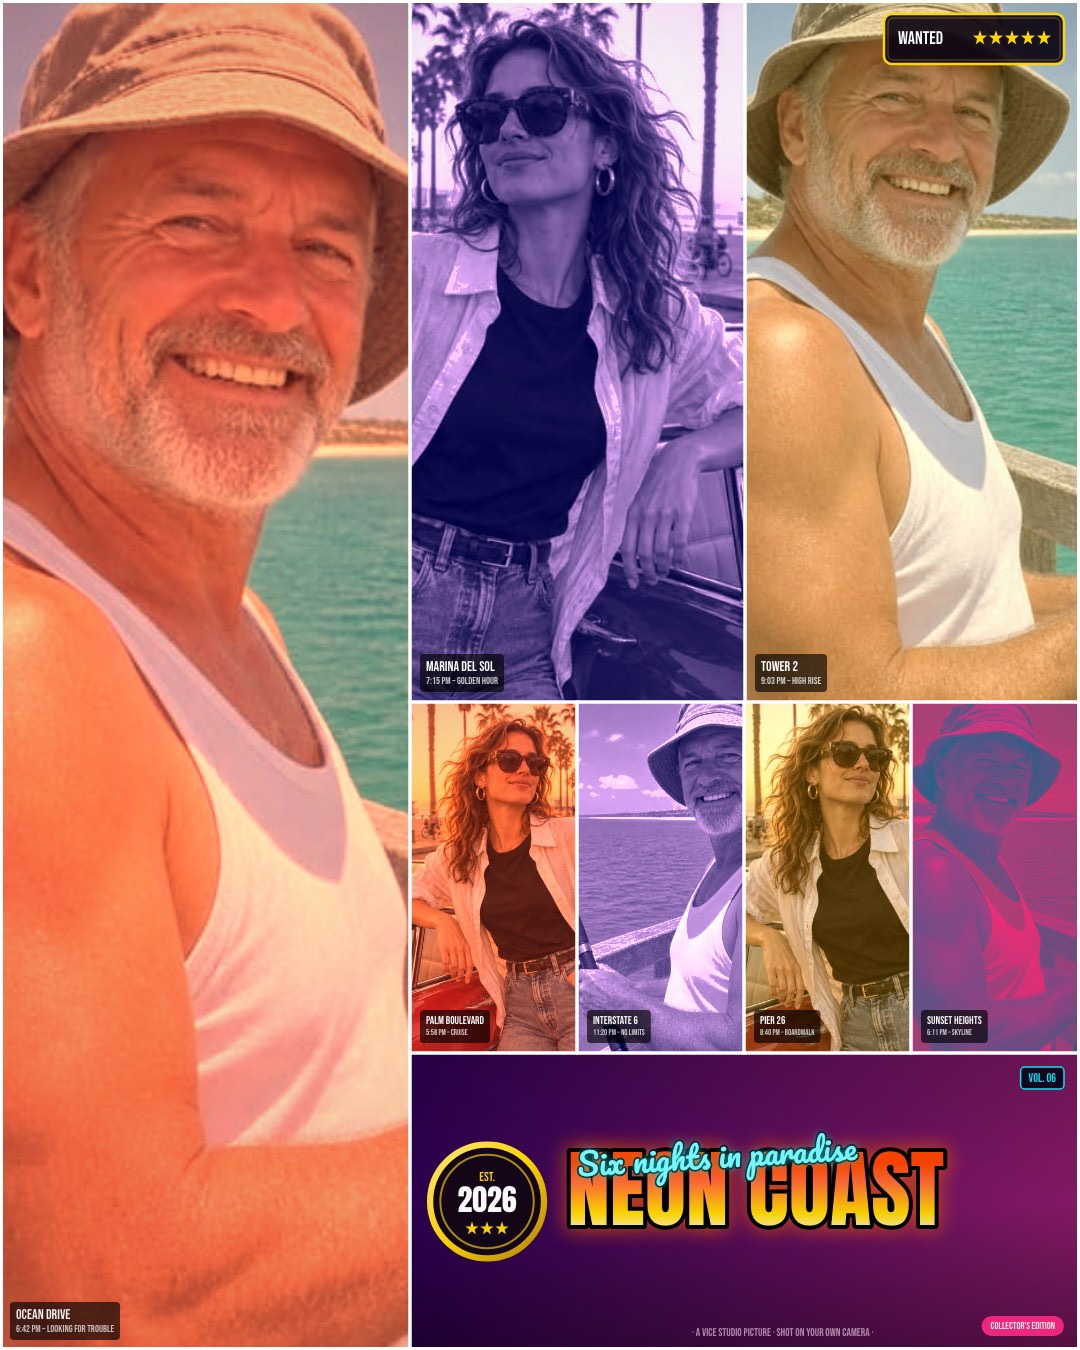
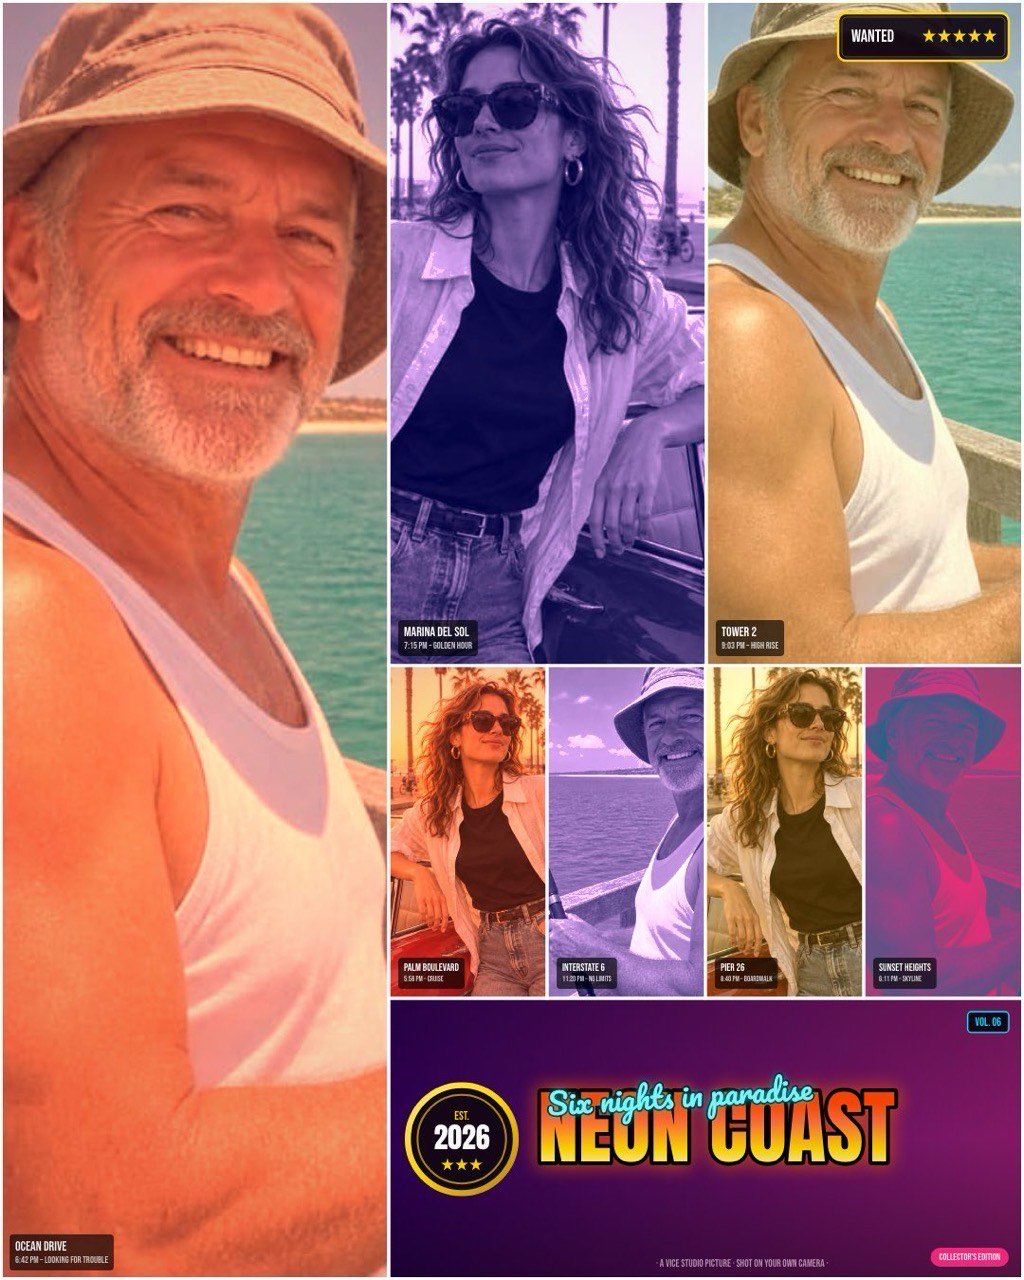
Fix screenshot dimensions for harness gate (≤1280 long side)

diff --git a/main.ts b/main.ts
@@ -2,6 +2,7 @@
 // Copies app/ + screenshots/ into the hand-in dir and writes dossier.json for scoring.
 
 import { cpSync, existsSync, mkdirSync, writeFileSync, readdirSync, statSync } from 'node:fs';
+import { execSync } from 'node:child_process';
 import { join } from 'node:path';
 import { fileURLToPath } from 'node:url';
 import { buildDossier } from './vendor/makefun-app.ts';
@@ -26,11 +27,27 @@ if (existsSync(join(out, 'screenshots'))) {
   const images = readdirSync(join(out, 'screenshots')).filter((f) => !f.startsWith('.'));
   console.log(`[gta6-cover-art] Bundling ${images.length} screenshots:`);
   for (const img of images) {
-    const sz = statSync(join(out, 'screenshots', img)).size;
+    const imgPath = join(out, 'screenshots', img);
+    const sz = statSync(imgPath).size;
     const ok = sz <= 262144 ? 'OK' : 'EXCEEDED';
     console.log(`  - ${img}: ${sz} bytes (${(sz / 1024).toFixed(1)} KiB) [${ok}]`);
     if (sz > 262144) {
       throw new Error(`Screenshot ${img} exceeds 256 KiB limit: ${sz} bytes`);
+    }
+    // Pixel dimension check
+
+    const dims = execSync(`sips -g pixelWidth -g pixelHeight "${imgPath}"`).toString();
+    const wMatch = dims.match(/pixelWidth: (\d+)/);
+    const hMatch = dims.match(/pixelHeight: (\d+)/);
+    if (!wMatch || !hMatch) {
+      throw new Error(`Unable to get dimensions for ${img}`);
+    }
+    const width = parseInt(wMatch[1], 10);
+    const height = parseInt(hMatch[1], 10);
+    const longSide = Math.max(width, height);
+    const shortSide = Math.min(width, height);
+    if (longSide > 1280 || shortSide < 480) {
+      throw new Error(`Screenshot ${img} dimensions invalid (long side ${longSide}px, short side ${shortSide}px)`);
     }
   }
 }
